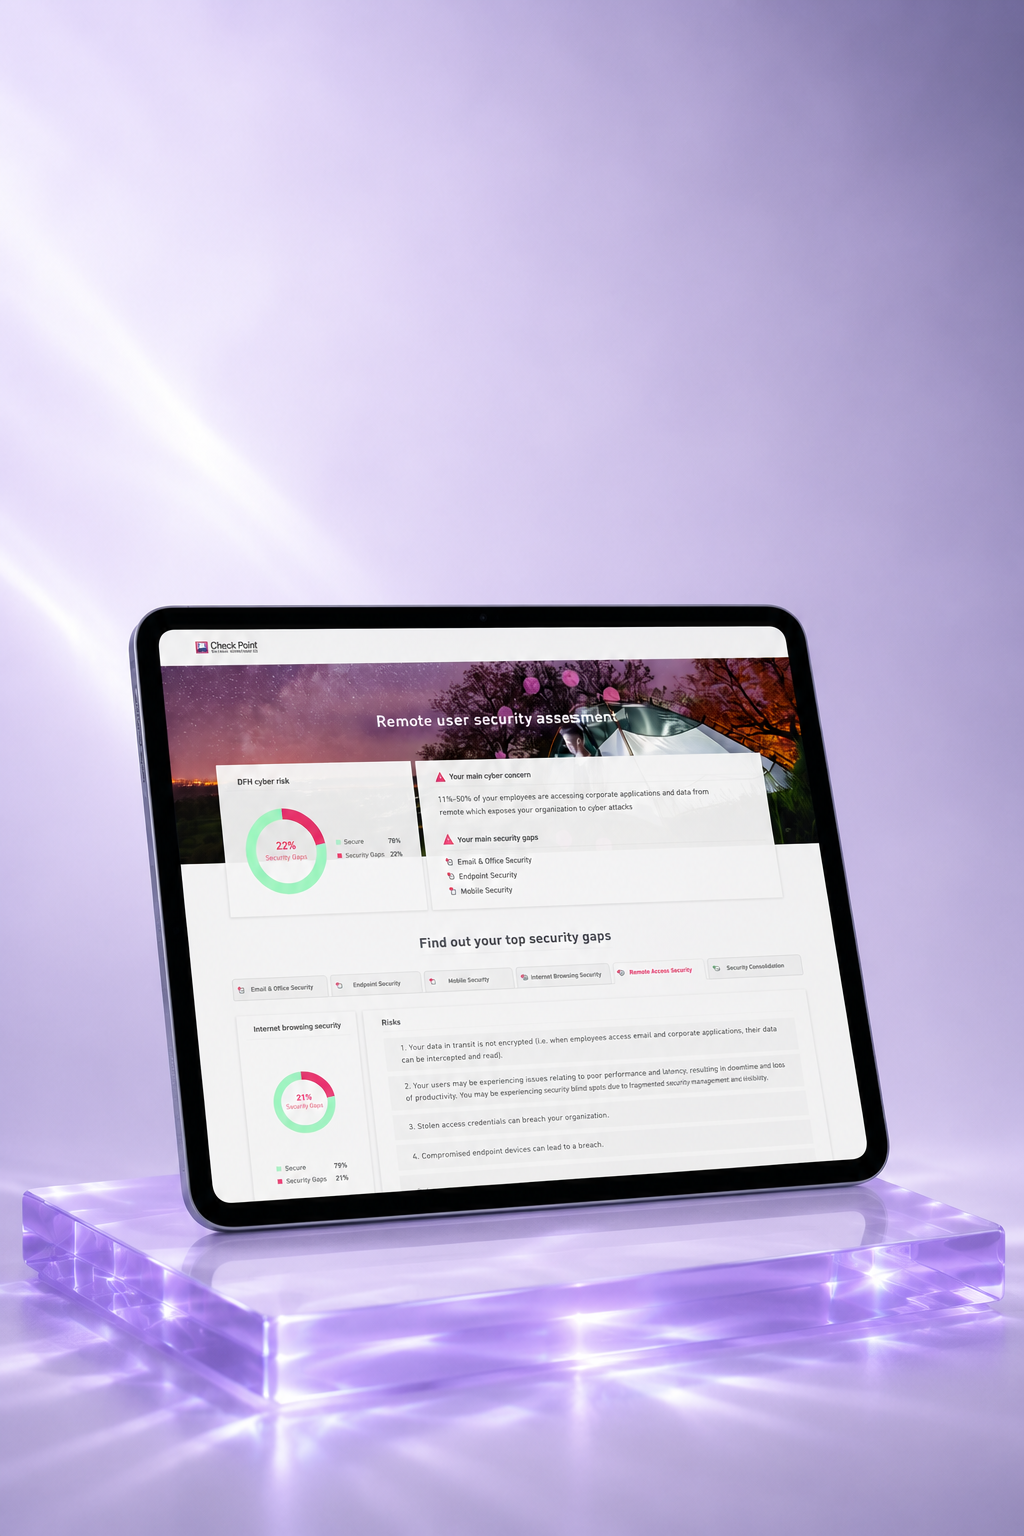
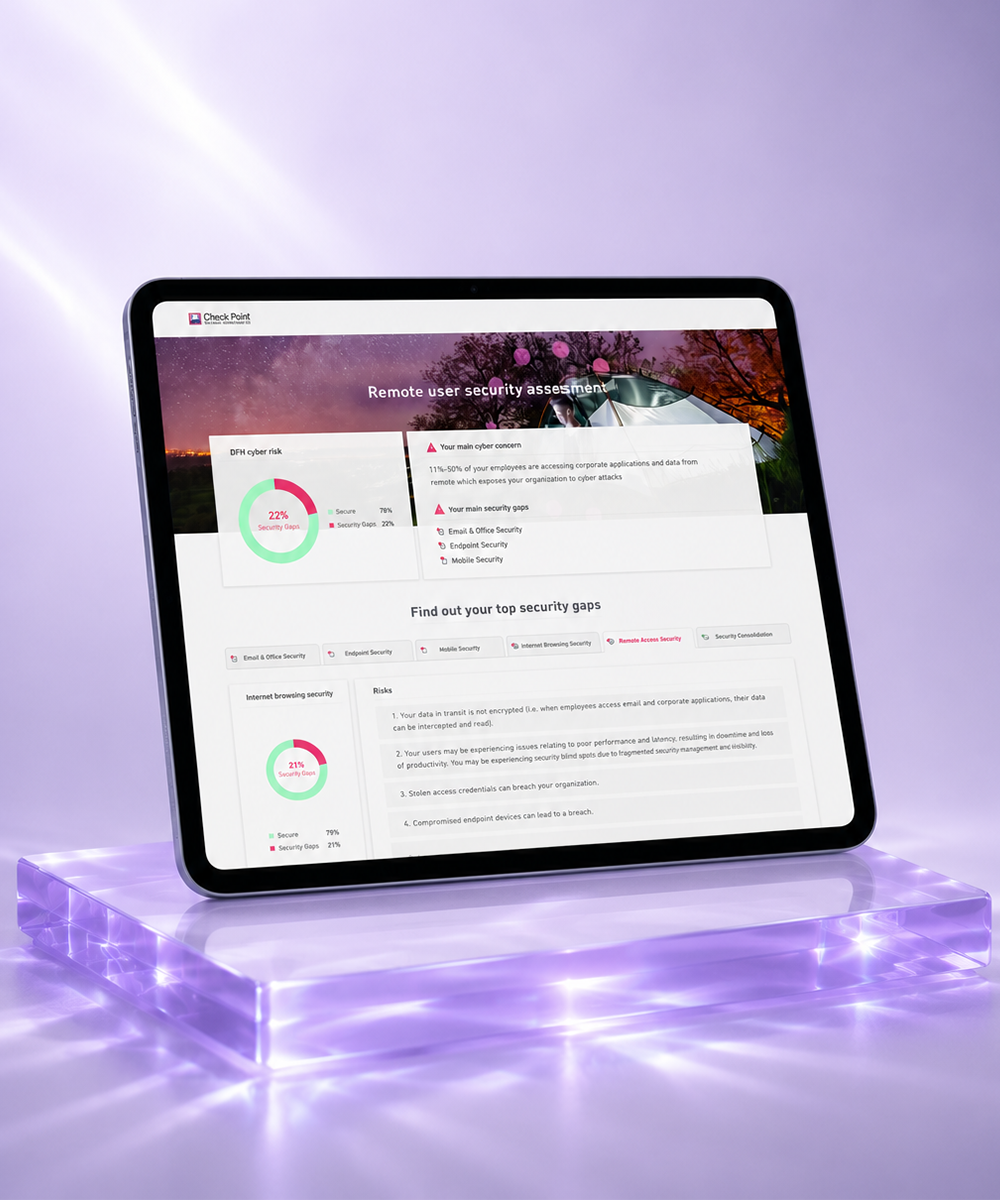
Add files via upload

diff --git a/harmony-v4-desktop.css b/harmony-v4-desktop.css
@@ -1,0 +1,300 @@
+*{box-sizing:border-box}html{scroll-behavior:smooth}body{margin:0;background:#0f1012;color:#f4f1eb;font-family:Inter,Arial,sans-serif;-webkit-font-smoothing:antialiased}.grid{width:calc(100% - (2 * clamp(22px,3.2vw,58px)));margin-inline:auto}.site-header{height:72px;position:fixed;inset:0 0 auto;z-index:50;display:flex;align-items:center;justify-content:space-between;padding:0 clamp(22px,3.2vw,58px);background:linear-gradient(#0f1012 0%,rgba(15,16,18,.86) 62%,transparent)}.site-header a{color:rgba(244,241,235,.85);text-decoration:none;font-size:11px;letter-spacing:.26em}.site-header nav{display:flex;gap:34px}.intro{min-height:470px;padding:128px 0 72px;text-align:center;display:flex;flex-direction:column;justify-content:center;align-items:center}.intro h1{margin:0;font:400 clamp(62px,5.1vw,76px)/.98 "Playfair Display",serif;letter-spacing:-.038em}.intro h2{margin:17px 0 0;font:400 24px/1.22 "Playfair Display",serif;letter-spacing:-.012em}.intro p{max-width:760px;margin:25px auto 0;color:#c8c4be;font-size:clamp(15px,1.02vw,17px);line-height:1.72;letter-spacing:-.008em}.gallery{display:flex;flex-direction:column;gap:20px;padding-bottom:145px}.gallery figure{margin:0;overflow:hidden;border-radius:18px}.gallery .hero{border-radius:0}.gallery img{display:block;width:100%;height:auto}.pair{display:grid;grid-template-columns:1.72fr 1fr;gap:20px;align-items:stretch}.pair figure{height:100%}.pair img{height:100%;object-fit:cover}.more{padding:30px 0 145px}.eyebrow{margin:0 0 26px;color:#b8a792;font-size:9px;letter-spacing:.2em}.cards{display:grid;grid-template-columns:repeat(3,1fr);gap:18px}.project{text-decoration:none;color:inherit}.pic{display:block;position:relative;aspect-ratio:4/3;overflow:hidden;border-radius:10px;background:#17181b}.pic img{width:100%;height:100%;object-fit:cover;display:block;transition:.45s}.pic:after{content:"";position:absolute;inset:0;background:#0f1012;opacity:0;transition:.35s}.pic i{position:absolute;left:22px;bottom:20px;z-index:2;font-style:normal;font-size:9px;letter-spacing:.2em;opacity:0;transition:.35s}.project:hover .pic img{transform:scale(1.025)}.project:hover .pic:after{opacity:.3}.project:hover .pic i{opacity:1}.project small{display:block;margin-top:14px;color:rgba(244,241,235,.68);font-size:9px;letter-spacing:.2em}.project strong{display:block;margin-top:7px;font:400 25px/1 "Playfair Display",serif}.contact-old-unused{background:#f4f0eb;color:#0f1012;min-height:610px;padding:90px clamp(22px,3.2vw,58px) 28px;display:flex;flex-direction:column;justify-content:space-between}.contact-old-inner{max-width:1120px;width:100%;margin:auto;display:grid;grid-template-columns:1fr 1px 1fr;gap:70px;align-items:center}.label{display:block;font-size:9px;letter-spacing:.25em;color:#8f8171}.contact-old-unused b{display:block;margin-top:16px;font:400 clamp(72px,8vw,126px)/.78 "Playfair Display",serif;letter-spacing:-.055em}.vline-old{width:1px;height:250px;background:#d9d1c7}.details-old{display:flex;flex-direction:column;align-items:flex-start}.details-old a{color:#0f1012;text-decoration:none;font:400 clamp(25px,2.4vw,39px)/1.2 "Playfair Display",serif;margin-top:12px}.line-old{width:54px;height:1px;background:#cfc5b9;margin:34px 0}.contact-old-unused footer{display:flex;justify-content:space-between;font-size:9px;letter-spacing:.16em}.contact-old-unused footer a{color:inherit;text-decoration:none}.cursor{position:fixed;inset:0;z-index:9999;pointer-events:none;opacity:0}.cursor.show{opacity:1}.ring,.dot{position:fixed;left:0;top:0;border-radius:50%;will-change:transform}.ring{width:30px;height:30px;border:1px solid #b8a792;display:grid;place-items:center;transition:width .3s,height .3s,background .3s}.dot{width:3px;height:3px;background:#b8a792}.ring em{font:500 7px/1 Inter,sans-serif;letter-spacing:.14em;color:#b8a792;font-style:normal;opacity:0}.cursor.project .ring{width:64px;height:64px;background:rgba(15,16,18,.74);backdrop-filter:blur(4px)}.cursor.project .dot{opacity:0}.cursor.project .ring em{opacity:1}@media(hover:hover) and (pointer:fine){body,a{cursor:none}}@media(max-width:900px){.site-header nav{display:none}.intro{text-align:left;align-items:flex-start;min-height:auto;padding:136px 0 68px}.intro h1{font-size:clamp(48px,12vw,64px)}.intro h2{font-size:22px}.intro p{font-size:15px}.gallery{display:block;padding-bottom:84px}.gallery>*{margin-bottom:16px}.pair{grid-template-columns:1fr;gap:16px}.pair figure{height:auto}.pair img{height:auto;object-fit:initial}.cards{grid-template-columns:1fr}.contact-old-inner{grid-template-columns:1fr;gap:36px}.vline-old{width:54px;height:1px}.contact-old-unused b{font-size:74px}.details-old a{font-size:28px}}
+/* HARMONY V2 — SCALE + APPROVED CONTACT */
+:root{
+  --pad:clamp(22px,3.2vw,58px);
+  --ui-accent:#b8a792;
+  --contact-bg:#f4f0eb;
+  --contact-ink:#17181b;
+  --contact-muted:#67645f;
+  --contact-line:#d7d0c6;
+}
+@media(min-width:901px){
+  .gallery{
+    width:min(calc(100% - (2 * var(--pad))), 1440px) !important;
+  }
+}
+
+/* Approved homepage V36 contact */
+.contact-v22{
+  position:relative;
+  z-index:3;
+  background:var(--contact-bg);
+  color:var(--contact-ink);
+  scroll-margin-top:72px;
+}
+.contact-v22 a{text-decoration:none}
+.contact-v22__inner{
+  display:flex;
+  align-items:center;
+  justify-content:center;
+  width:100%;
+  min-height:326px;
+  padding:42px var(--pad) 34px;
+  position:relative;
+}
+.contact-final{
+  position:absolute;
+  left:50%;
+  top:50%;
+  display:grid;
+  grid-template-columns:210px 1px 210px;
+  column-gap:20px;
+  width:461px;
+  height:168px;
+  margin:0;
+  transform:translate(-50%,-50%);
+}
+.contact-final__left{
+  display:grid;
+  grid-template-rows:18px 58px 58px;
+  row-gap:17px;
+  width:210px;
+  height:168px;
+  align-items:start;
+}
+.contact-final__label{
+  margin:0;
+  padding:0;
+  font-family:Inter,Arial,sans-serif;
+  font-size:8px;
+  font-weight:500;
+  line-height:18px;
+  letter-spacing:.25em;
+  text-transform:uppercase;
+  color:#7a766f;
+}
+.contact-final__word{
+  display:block;
+  margin:0;
+  padding:0;
+  font-family:"Playfair Display",serif;
+  font-size:68px;
+  font-weight:400;
+  line-height:58px;
+  letter-spacing:-.046em;
+  color:var(--contact-ink);
+  white-space:nowrap;
+}
+.contact-final__word--lets{grid-row:2}
+.contact-final__word--talk{grid-row:3}
+.contact-final__separator{
+  display:block;
+  width:1px;
+  height:168px;
+  background:var(--contact-ink);
+  opacity:.52;
+}
+.contact-final__right{
+  position:relative;
+  display:grid;
+  grid-template-rows:18px 58px 58px;
+  row-gap:17px;
+  width:210px;
+  height:168px;
+  align-items:start;
+}
+.contact-final__email-label{grid-row:1}
+.contact-final__email{
+  grid-row:2;
+  align-self:start;
+  margin-top:7px;
+}
+.contact-final__phone-label{
+  position:absolute;
+  left:0;
+  top:111px;
+}
+.contact-final__phone{
+  grid-row:3;
+  align-self:end;
+}
+.contact-final__small-divider{
+  position:absolute;
+  left:0;
+  top:91px;
+  width:38px;
+  height:1px;
+  background:var(--ui-accent);
+  opacity:.68;
+}
+.contact-final__right a{
+  display:inline-block;
+  font-family:Inter,Arial,sans-serif;
+  font-size:15px;
+  font-weight:400;
+  line-height:1.2;
+  letter-spacing:-.015em;
+  color:var(--contact-ink);
+}
+.contact-v22__footer{
+  display:flex;
+  justify-content:space-between;
+  align-items:center;
+  gap:40px;
+  width:min(calc(100% - (2 * var(--pad))),1120px);
+  margin:0 auto;
+  padding:20px 0 25px;
+  border-top:1px solid var(--contact-line);
+  font-family:Inter,Arial,sans-serif;
+  font-size:9px;
+  line-height:1;
+  letter-spacing:.19em;
+  text-transform:uppercase;
+  color:#77736c;
+}
+.contact-v22__footer a{color:var(--contact-ink)}
+
+@media(max-width:900px){
+  .contact-v22__inner{
+    width:100%;
+    min-height:0;
+    padding:68px 24px 62px;
+    display:flex;
+    justify-content:center;
+    align-items:flex-start;
+  }
+  .contact-final{
+    position:static;
+    display:grid;
+    grid-template-columns:1fr;
+    justify-items:center;
+    align-items:start;
+    gap:30px;
+    width:min(100%,430px);
+    height:auto;
+    margin:0 auto;
+    transform:none;
+    text-align:center;
+  }
+  .contact-final__left,.contact-final__right{
+    width:100%;
+    height:auto;
+    justify-items:center;
+    text-align:center;
+  }
+  .contact-final__left{display:grid;grid-template-rows:auto;gap:14px}
+  .contact-final__label,.contact-final__word{width:100%;text-align:center}
+  .contact-final__word{font-size:clamp(58px,15vw,72px);line-height:.86}
+  .contact-final__separator{width:86px;height:1px;margin:2px auto 0}
+  .contact-final__right{
+    position:static;
+    display:grid;
+    grid-template-rows:auto;
+    gap:13px;
+  }
+  .contact-final__email-label,.contact-final__email,.contact-final__phone-label,
+  .contact-final__phone,.contact-final__small-divider{
+    position:static;
+    grid-row:auto;
+    justify-self:center;
+    margin-left:auto;
+    margin-right:auto;
+    text-align:center;
+  }
+  .contact-final__small-divider{width:38px;height:1px;margin-top:8px;margin-bottom:8px}
+  .contact-v22__footer{
+    width:100%;
+    padding:22px 24px 30px;
+    display:flex;
+    flex-direction:column;
+    align-items:center;
+    justify-content:center;
+    gap:28px;
+    text-align:center;
+  }
+}
+
+/* HARMONY V3 — full site grid width; reduce height only */
+@media(min-width:901px){
+  .gallery{
+    width:calc(100% - (2 * var(--pad))) !important;
+    max-width:none !important;
+  }
+
+  .gallery > figure,
+  .pair > figure{
+    position:relative;
+    overflow:hidden;
+  }
+
+  /* Wide hero: keep grid width, shorten only vertically */
+  .gallery > .hero{
+    height:clamp(500px,46vw,700px);
+  }
+  .gallery > .hero img{
+    width:100%;
+    height:100%;
+    object-fit:cover;
+    object-position:center;
+  }
+
+  /* Main overview: keep full width but less vertical mass */
+  .gallery > figure:not(.hero){
+    height:clamp(560px,50vw,760px);
+  }
+  .gallery > figure:not(.hero) img{
+    width:100%;
+    height:100%;
+    object-fit:cover;
+    object-position:center;
+  }
+
+  /* Bottom pair stays on the same grid; both cards shorter */
+  .pair{
+    width:100%;
+    height:clamp(500px,43vw,650px);
+  }
+  .pair > figure{
+    height:100% !important;
+  }
+  .pair > figure img{
+    width:100% !important;
+    height:100% !important;
+    object-fit:cover !important;
+    object-position:center !important;
+  }
+}
+
+/* HARMONY V4 — final re-exported desktop visuals */
+@media(min-width:901px){
+  .gallery > .hero,
+  .gallery > figure:not(.hero){
+    height:auto !important;
+  }
+  .gallery > .hero{
+    border-radius:18px !important;
+  }
+  .gallery > .hero img,
+  .gallery > figure:not(.hero) img{
+    display:block !important;
+    width:100% !important;
+    height:auto !important;
+    object-fit:initial !important;
+    object-position:initial !important;
+    transform:none !important;
+  }
+
+  /* Bottom row keeps the approved site grid and uses the dedicated iPad export without crop. */
+  .pair{
+    width:100% !important;
+    height:auto !important;
+    align-items:stretch !important;
+  }
+  .pair > figure{
+    height:auto !important;
+  }
+  .pair > figure:first-child img{
+    width:100% !important;
+    height:100% !important;
+    object-fit:cover !important;
+    object-position:center !important;
+  }
+  .pair > figure:last-child img{
+    display:block !important;
+    width:100% !important;
+    height:auto !important;
+    object-fit:initial !important;
+    object-position:initial !important;
+    transform:none !important;
+  }
+}

diff --git a/harmony-v4-desktop.html b/harmony-v4-desktop.html
@@ -1,0 +1,36 @@
+<!doctype html><html lang="en"><head><meta charset="utf-8"><meta name="viewport" content="width=device-width,initial-scale=1">
+<title>Harmony by Check Point — Hila Shaked</title>
+<link rel="preconnect" href="https://fonts.googleapis.com"><link rel="preconnect" href="https://fonts.gstatic.com" crossorigin>
+<link href="https://fonts.googleapis.com/css2?family=Inter:wght@400;500&family=Playfair+Display:wght@400&display=swap" rel="stylesheet">
+<link rel="icon" type="image/png" href="assets/favicon.png"><link rel="stylesheet" href="harmony-v4-desktop.css"></head>
+<body id="top"><header class="site-header"><a class="brand" href="home-preview-v36-mobile-final.html">HILA SHAKED</a><nav><a href="home-preview-v36-mobile-final.html#work">WORK</a><a href="home-preview-v36-mobile-final.html#about">ABOUT</a><a href="assets/Hila-Shaked-Resume.pdf" target="_blank">RESUME</a><a href="#contact">CONTACT</a></nav></header>
+<main><section class="intro grid"><h1>Harmony by Check Point</h1><h2>Interactive Quiz Design</h2><p>An interactive assessment designed for Check Point Harmony, guiding users through a personalized cybersecurity journey. By combining UX/UI design, information architecture, and visual storytelling, the experience transforms complex security decisions into a clear, engaging, and intuitive digital journey.</p></section>
+<section class="gallery grid"><figure class="hero"><img src="harmony-hero.png" alt=""></figure><figure><img src="harmony-overview.png" alt=""></figure><div class="pair"><figure><img src="harmony-mobile-results.png" alt=""></figure><figure><img src="harmony-ipad.png" alt=""></figure></div></section>
+<section class="more grid"><p class="eyebrow">EXPLORE MORE PROJECTS</p><div class="cards">
+<a class="project" href="#"><span class="pic"><img src="assets/cover-ixden.png" alt="IXDen"><i>VIEW PROJECT →</i></span><small>BRAND IDENTITY &amp; WEBSITE DESIGN</small><strong>IXDen</strong></a>
+<a class="project" href="#"><span class="pic"><img src="assets/cover-carmel-metal.png" alt="Carmel Metal"><i>VIEW PROJECT →</i></span><small>WEBSITE DESIGN</small><strong>Carmel Metal</strong></a>
+<a class="project" href="#"><span class="pic"><img src="assets/cover-tami4.png" alt="Tami4"><i>VIEW PROJECT →</i></span><small>CAMPAIGN DESIGN</small><strong>Tami4</strong></a></div></section>
+<section class="contact-v22" id="contact" aria-labelledby="contact-title">
+  <div class="contact-v22__inner">
+    <div class="contact-final">
+      <div class="contact-final__left">
+        <p class="contact-final__label">GET IN TOUCH</p>
+        <span class="contact-final__word contact-final__word--lets">Let’s</span>
+        <span class="contact-final__word contact-final__word--talk">talk.</span>
+      </div>
+      <span class="contact-final__separator" aria-hidden="true"></span>
+      <div class="contact-final__right" aria-label="Contact details">
+        <span class="contact-final__label contact-final__email-label">EMAIL</span>
+        <a class="contact-final__email" href="mailto:hilaalmagor@gmail.com">hilaalmagor@gmail.com</a>
+        <span class="contact-final__small-divider" aria-hidden="true"></span>
+        <span class="contact-final__label contact-final__phone-label">PHONE</span>
+        <a class="contact-final__phone" href="tel:+972547704074">054-7704074</a>
+      </div>
+    </div>
+  </div>
+  <footer class="contact-v22__footer">
+    <span>© 2026 Hila Shaked</span>
+    <a href="#top">BACK TO TOP ↑</a>
+  </footer>
+</section></main>
+<div class="cursor"><span class="ring"><em>VIEW</em></span><span class="dot"></span></div><script src="harmony-v4-desktop.js"></script></body></html>

diff --git a/harmony-v4-desktop.js b/harmony-v4-desktop.js
@@ -1,0 +1,1 @@
+(()=>{const c=document.querySelector(".cursor"),r=c.querySelector(".ring"),d=c.querySelector(".dot");if(!matchMedia("(pointer:fine)").matches)return;addEventListener("mousemove",e=>{c.classList.add("show");r.style.transform=`translate(${e.clientX-r.offsetWidth/2}px,${e.clientY-r.offsetHeight/2}px)`;d.style.transform=`translate(${e.clientX-1.5}px,${e.clientY-1.5}px)`;c.classList.toggle("project",!!e.target.closest(".project"))});document.documentElement.addEventListener("mouseleave",()=>c.classList.remove("show"))})();
